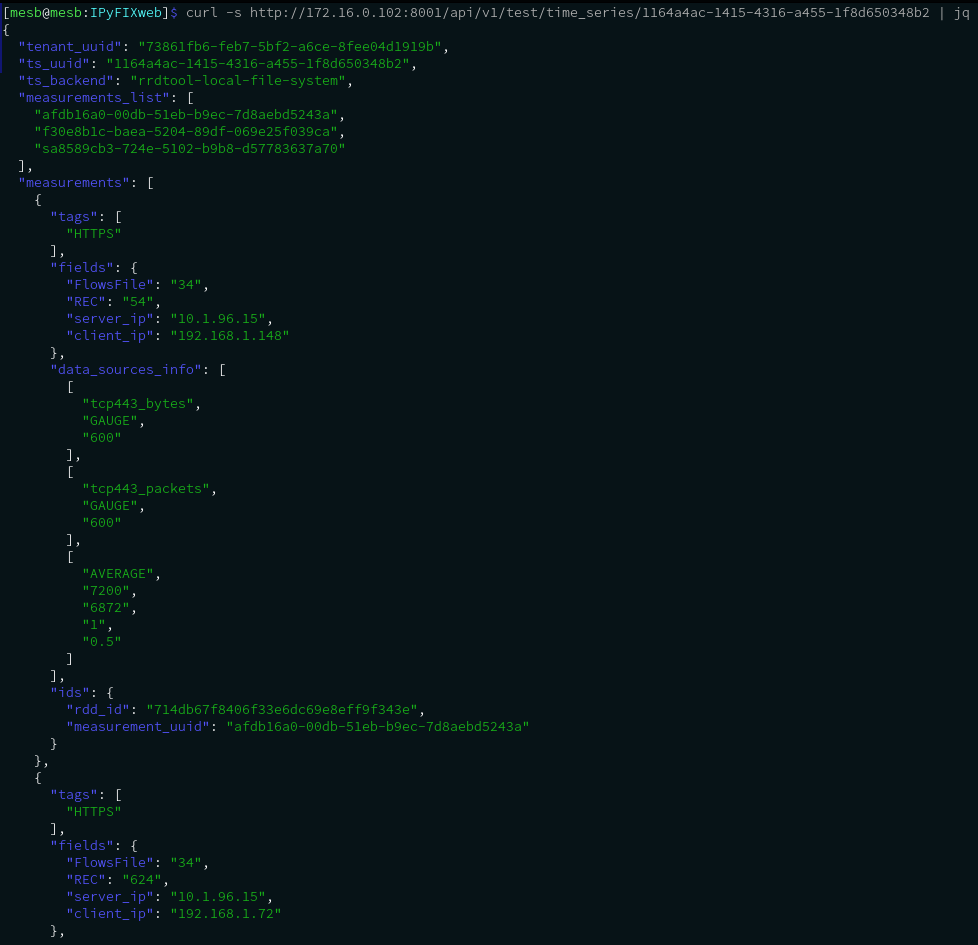
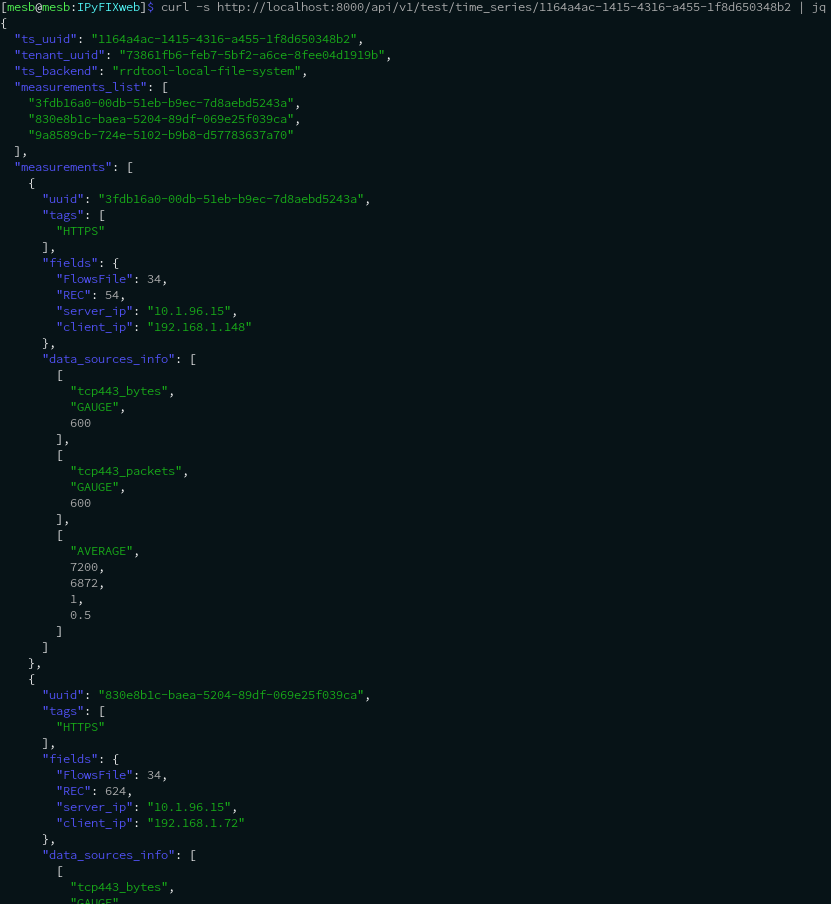
update: adding pydantic models to core (entities/data-domain)

diff --git a/src/adapters/infrastructure/databases/time_series/rrdtool/data_access.py b/src/adapters/infrastructure/databases/time_series/rrdtool/data_access.py
@@ -104,22 +104,20 @@ class rrdb_local(DbPort, rrdb):
         for measurement in measurements_list:
             uuid = measurement.split(",")[1].split(":")[1]
             ts_instance_info["measurements_list"].append(uuid)
-            measurement_data = {f"{uuid}": {
+            measurement_data = {}
+            measurement_data = {
+                "uuid": uuid,
                 "tags": [],
                 "fields": {},
                 "data_sources_info": [],
-                "ids": {}
-            }}
+            }
             for entry in measurement.split(","):
                 if ":" in entry:
                     if not re.match(r"^.*_(id|uuid)", entry):
                         key, value = entry.split(":")
-                        measurement_data[uuid]["fields"][key] = value
-                    else:
-                        key, value = entry.split(":")
-                        measurement_data[uuid]["ids"][key] = value
+                        measurement_data["fields"][key] = value
                 else:
-                    measurement_data[uuid]["tags"].append(entry)
+                    measurement_data["tags"].append(entry)
 
             for key, value in rrdtool.info(
                 f"{self.local_instance}{measurement.split(',')[0].split(':')[1]}.rrd").items():
@@ -127,34 +125,34 @@ class rrdb_local(DbPort, rrdb):
                 rra_info = re.match(r"^rra\[(?P<rra_index>\d+)\].cf$", key)
                 if ds_name and value == 0:
                     ds_index = value
-                    measurement_data[uuid]["data_sources_info"].append([])
-                    measurement_data[uuid]["data_sources_info"][ds_index].append(ds_name.group("ds_name"))
+                    measurement_data["data_sources_info"].append(())
+                    measurement_data["data_sources_info"][ds_index] += (ds_name.group("ds_name"),)
                 elif ds_name and value != 0:
                     ds_index = value
-                    measurement_data[uuid]["data_sources_info"].append([])
-                    measurement_data[uuid]["data_sources_info"][ds_index].append(ds_name.group("ds_name"))
+                    measurement_data["data_sources_info"].append(())
+                    measurement_data["data_sources_info"][ds_index] += (ds_name.group("ds_name"),)
                 elif re.match(r"^ds\[.*\].type$", key):
-                    measurement_data[uuid]["data_sources_info"][ds_index].append(value)
+                    measurement_data["data_sources_info"][ds_index] += (value,)
                 elif re.match(r"^ds\[.*\].minimal_heartbeat$", key):
-                    measurement_data[uuid]["data_sources_info"][ds_index].append(str(value))
+                    measurement_data["data_sources_info"][ds_index] += (value,)
                 elif rra_info and rra_info.group("rra_index") == "0":
                     rra_index = ds_index + 1
-                    measurement_data[uuid]["data_sources_info"].append([])
-                    measurement_data[uuid]["data_sources_info"][rra_index].append(value)
+                    measurement_data["data_sources_info"].append(())
+                    measurement_data["data_sources_info"][rra_index] += (value,)
                 elif rra_info and rra_info.group("rra_index") != "0":
                     rra_index = ds_index + 1
-                    measurement_data[uuid]["data_sources_info"].append([])
-                    measurement_data[uuid]["data_sources_info"][rra_index].append(value)
+                    measurement_data["data_sources_info"].append(())
+                    measurement_data["data_sources_info"][rra_index] += (value,)
                 elif re.match(r"^rra\[\d+\].pdp_per_row$", key):
-                    measurement_data[uuid]["data_sources_info"][rra_index].append(str(value))
+                    measurement_data["data_sources_info"][rra_index] += (value,)
                 elif re.match(r"^rra\[\d+\].rows$", key):
-                    measurement_data[uuid]["data_sources_info"][rra_index].append(str(value))
+                    measurement_data["data_sources_info"][rra_index] += (value,)
                 elif re.match(r"^rra\[\d+\].cur_row$", key):
-                    measurement_data[uuid]["data_sources_info"][rra_index].append(str(value))
+                    measurement_data["data_sources_info"][rra_index] += (value,)
                 elif re.match(r"^rra\[\d+\].xff$", key):
-                    measurement_data[uuid]["data_sources_info"][rra_index].append(str(value))
+                    measurement_data["data_sources_info"][rra_index] += (value,)
 
-            ts_instance_info["measurements"].append(measurement_data[uuid])
+            ts_instance_info["measurements"].append(measurement_data)
         return ts_instance_info
 
     def create(self, options) -> bool:

diff --git a/src/core/entities/time_series.py b/src/core/entities/time_series.py
@@ -1,0 +1,46 @@
+import re
+from uuid import UUID
+from typing import List, Dict
+from pydantic import BaseModel, field_validator
+
+
+class MeasurementDetails(BaseModel):
+    uuid: UUID
+    tags: List[str]
+    fields: Dict[str, str | int | float]
+    data_sources_info: List[List[str | int | float]]
+
+    @field_validator('fields', mode='before')
+    @classmethod
+    def validate_fields(cls, v):
+        if not isinstance(v, dict):
+            raise ValueError("fields must be a dictionary")
+        fields = v.copy()
+        for k, value in v.items():
+            if isinstance(value, str):
+                if re.match(r"^[\d]+$", value):
+                    fields[k] = int(value)
+                elif re.match(r"^[\d]+[\.|\,][\d]+$", value):
+                    fields[k] = float(value)
+            elif not isinstance(value, (int, float)):
+                raise ValueError(
+                    f"Invalid value type for field '{k}': {type(value)}")
+        return fields
+
+    @field_validator('data_sources_info', mode='before')
+    @classmethod
+    def validate_data_sources(cls, v):
+        if not isinstance(v, list):
+            raise ValueError("data_sources_info must be a list")
+        for entry in v:
+            if not isinstance(entry, (tuple, list)):
+                raise ValueError("data_sources_info must be a list of tuples or lists")
+        return v
+    
+
+class Instance(BaseModel):
+    ts_uuid: UUID
+    tenant_uuid: UUID
+    ts_backend: str
+    measurements_list: List[str]
+    measurements: List[MeasurementDetails]

diff --git a/src/core/use_cases/analyses/time_series_business.py b/src/core/use_cases/analyses/time_series_business.py
@@ -3,7 +3,9 @@ This module implements the use cases for the time-series analyses business logic
 '''
 
 from typing import Any
+
 from ports.repositories.time_series import timeSeriesDb
+from core.entities.time_series import Instance
 
 
 class timeSeries:
@@ -34,5 +36,8 @@ class timeSeries:
     def ts_db(self):
         pass
 
-    def store_info(self):
-        return self._ts_db.info()
+    async def store_info(self):
+        info = await self._ts_db.info()
+        if not info:
+            return None
+        return Instance(**info).model_dump()

diff --git a/src/cmd/startup.py b/src/cmd/startup.py
@@ -1,6 +1,7 @@
 import asyncio
 
-from utils.arguments_helper import type_check
+from pydantic import validate_call
+
 from adapters.web_api.flask.web_server import (
     startup_sync_not_implemented
 )
@@ -9,7 +10,7 @@ from adapters.web_api.fastapi.web_server import (
     async_single_worker_web_server
 )
 
-@type_check(str, int | None, bool)
+@validate_call
 def webframework_startup(
     framework: str,
     workers: int | None,

diff --git a/docs/ipyfixweb_project/architecture/rrdtool_file_system_adapter.md b/docs/ipyfixweb_project/architecture/rrdtool_file_system_adapter.md
@@ -14,7 +14,7 @@ To persist the analysis results (packets and bytes per second), the following 3 
 
 DB/instance: time_series service UUID: ***1164a4ac-1415-4316-a455-1f8d650348b2***
 
-- ts_id (implementation id - rrd file-system): /tenat_folder_id/pcap_export_id/rrd
+- implementation id rrd file-system: /tenat_folder_id/pcap_export_id/rrd
 
     - *https1 data_sources/data_fields_sets/table: rdd file 1* - **714db67f8406f33e6dc69e8eff9f343e.rrd**
         https_bytes_secs (data + step epoch)
@@ -30,10 +30,11 @@ DB/instance: time_series service UUID: ***1164a4ac-1415-4316-a455-1f8d650348b2**
 
 - The DB/instance, in this implementation, is a folder with rrd files. One text file will be used to store additional info (metering sources, tags, fileds, ...).
     - rrd_meta (easy read and parse):
-    >ts_instance_service_UUID:***1164a4ac-1415-4316-a455-1f8d650348b2***
-    >**rdd_id**:714db67f8406f33e6dc69e8eff9f343e,**measurement_service_uuid**:afdb16a0-00db-51eb-b9ec-7d8aebd5243a,**FlowsFile**:34,**REC**:54,**HTTPS**,server_ip:10.1.96.15,client_ip:192.168.1.148
-    >**rdd_id**:Se39dfb5169058449f8aa457faecdc17,**measurement_service_uuid**:f30e8b1c-baea-5204-89df-069e25f039ca,**FlowsFile**:34,**REC**:624,**HTTPS**,server_ip:10.1.96.15,client_ip:192.168.1.72
-    >**rdd_id**:9ef377b830807cbc237a2dfe7536fc1f,**measurement_service_uuid**:sa8589cb3-724e-5102-b9b8-d57783637a70**FlowsFile**:34,**REC**:19,**SSH**,server_ip:10.1.32.4,client_ip:172.16.0.25
+
+    ts_instance_service_UUID:***1164a4ac-1415-4316-a455-1f8d650348b2***
+    **rdd_id**:714db67f8406f33e6dc69e8eff9f343e,**measurement_service_uuid**:afdb16a0-00db-51eb-b9ec-7d8aebd5243a,**FlowsFile**:34,**REC**:54,**HTTPS**,server_ip:10.1.96.15,client_ip:192.168.1.148
+    **rdd_id**:Se39dfb5169058449f8aa457faecdc17,**measurement_service_uuid**:f30e8b1c-baea-5204-89df-069e25f039ca,**FlowsFile**:34,**REC**:624,**HTTPS**,server_ip:10.1.96.15,client_ip:192.168.1.72
+    **rdd_id**:9ef377b830807cbc237a2dfe7536fc1f,**measurement_service_uuid**:sa8589cb3-724e-5102-b9b8-d57783637a70**FlowsFile**:34,**REC**:19,**SSH**,server_ip:10.1.32.4,client_ip:172.16.0.25
 
 Individual size RRD file (2 data_sources for 2 hours): **114 KB**
 **Total size** of these 3 RRD files and meta_rrd: **342 KB (meta file: 540 bytes)**.
@@ -44,19 +45,24 @@ If some future analysis against the same server/clients pair and protocol infos 
 **Some info about rrdtool manipulation:**
 
 ```python
-# create a new RRD file with two data sources
+
+# Very simple example: Create a new RRD file with two data sources, next update the two ds at same time with random values
+
 tenant_path = "tests/tenant_testID/pcap_export1"
 rrd_file_path = "9ef377b830807cbc237a2dfe7536fc1f.rrd"
 ssh_bytesDataSource = "tcp22_bytes"
 ssh_packetsDataSource = "tcp22_packets"
-start_time_epoch = 1656562235-1
 data_source_type = 'GAUGE'  # GAUGE, COUNTER, DERIVE, DCOUNTER, DDERIVE, ABSOLUTE
-consolidation_function = 'AVERAGE'  # AVERAGE, MIN, MAX, LAST, TOTAL or specialized functions (via the Holt-Winters forecasting algorithm): HWPREDICT, MHWPREDICT, SEASONAL, DEVSEASONAL, DEVPREDICT, FAILURES (OBS: All specialized functions with own RRA formmat)
+consolidation_function = 'AVERAGE'  # AVERAGE, MIN, MAX, LAST, TOTAL or specialized functions
+# via the Holt-Winters forecasting algorithm: HWPREDICT, MHWPREDICT, SEASONAL, DEVSEASONAL, DEVPREDICT, FAILURES
+# OBS: All specialized functions with own RRA formmat
+start_time_epoch = 1656562235-1
+minimal_heartbeat = 600
 step_time_sec = 1
 row_size_hours = 2
 dataSource_confs, roundRobin_archives = list(), list()
-dataSource_confs.append(f'DS:{ssh_bytesDataSource}:{data_source_type}:600:U:U')
-dataSource_confs.append(f'DS:{ssh_packetsDataSource}:{data_source_type}:600:U:U')
+dataSource_confs.append(f'DS:{ssh_bytesDataSource}:{data_source_type}:{minimal_heartbeat}:U:U')
+dataSource_confs.append(f'DS:{ssh_packetsDataSource}:{data_source_type}:{minimal_heartbeat}:U:U')
 roundRobin_archives.append(f'RRA:{consolidation_function}:0.5:{step_time_sec}s:{row_size_hours}h')
 rrdtool.create(
     f'{tenant_path}/{rrd_file_path}',
@@ -65,7 +71,7 @@ rrdtool.create(
     dataSource_confs,
     roundRobin_archives
 )
-# very simple update example (update two ds same time / random values)
+
 epoch_time = 1656562235
 for _ in range(1656569408 - 1656562235):
     random_packets_sec = random.randint(11, 14)

diff --git a/docs/examples/README.md b/docs/examples/README.md
@@ -10,6 +10,8 @@ The app and the entire architecture was successfully tested. **The async route: 
 
     http://localhost:8000/api/v1/test/time_series/1164a4ac-1415-4316-a455-1f8d650348b2
 
->**Testing output**
+![Testing2](/docs/ipyfixweb_project/images/tests2.png)
+
+    http://localhost:8000/api/v1/test/time_series/264c3408-aec2-59fb-9712-f2f5a555d982
 
 ![Testing](/docs/ipyfixweb_project/images/tests.png)
